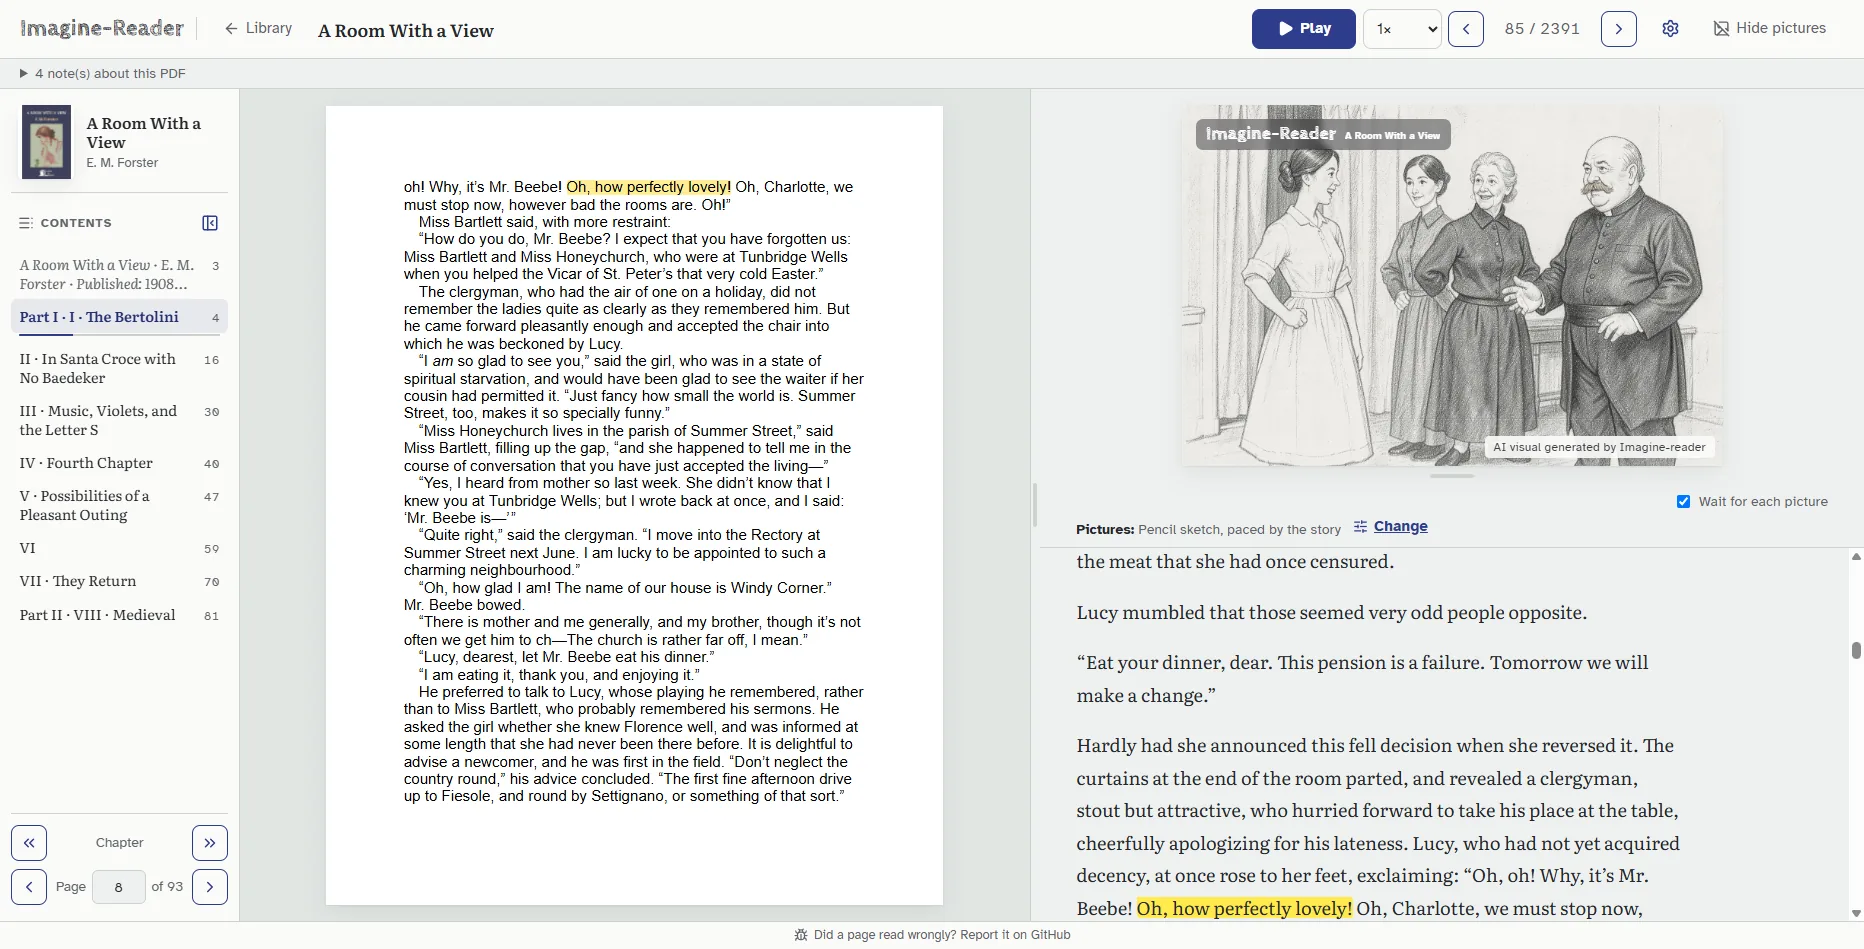
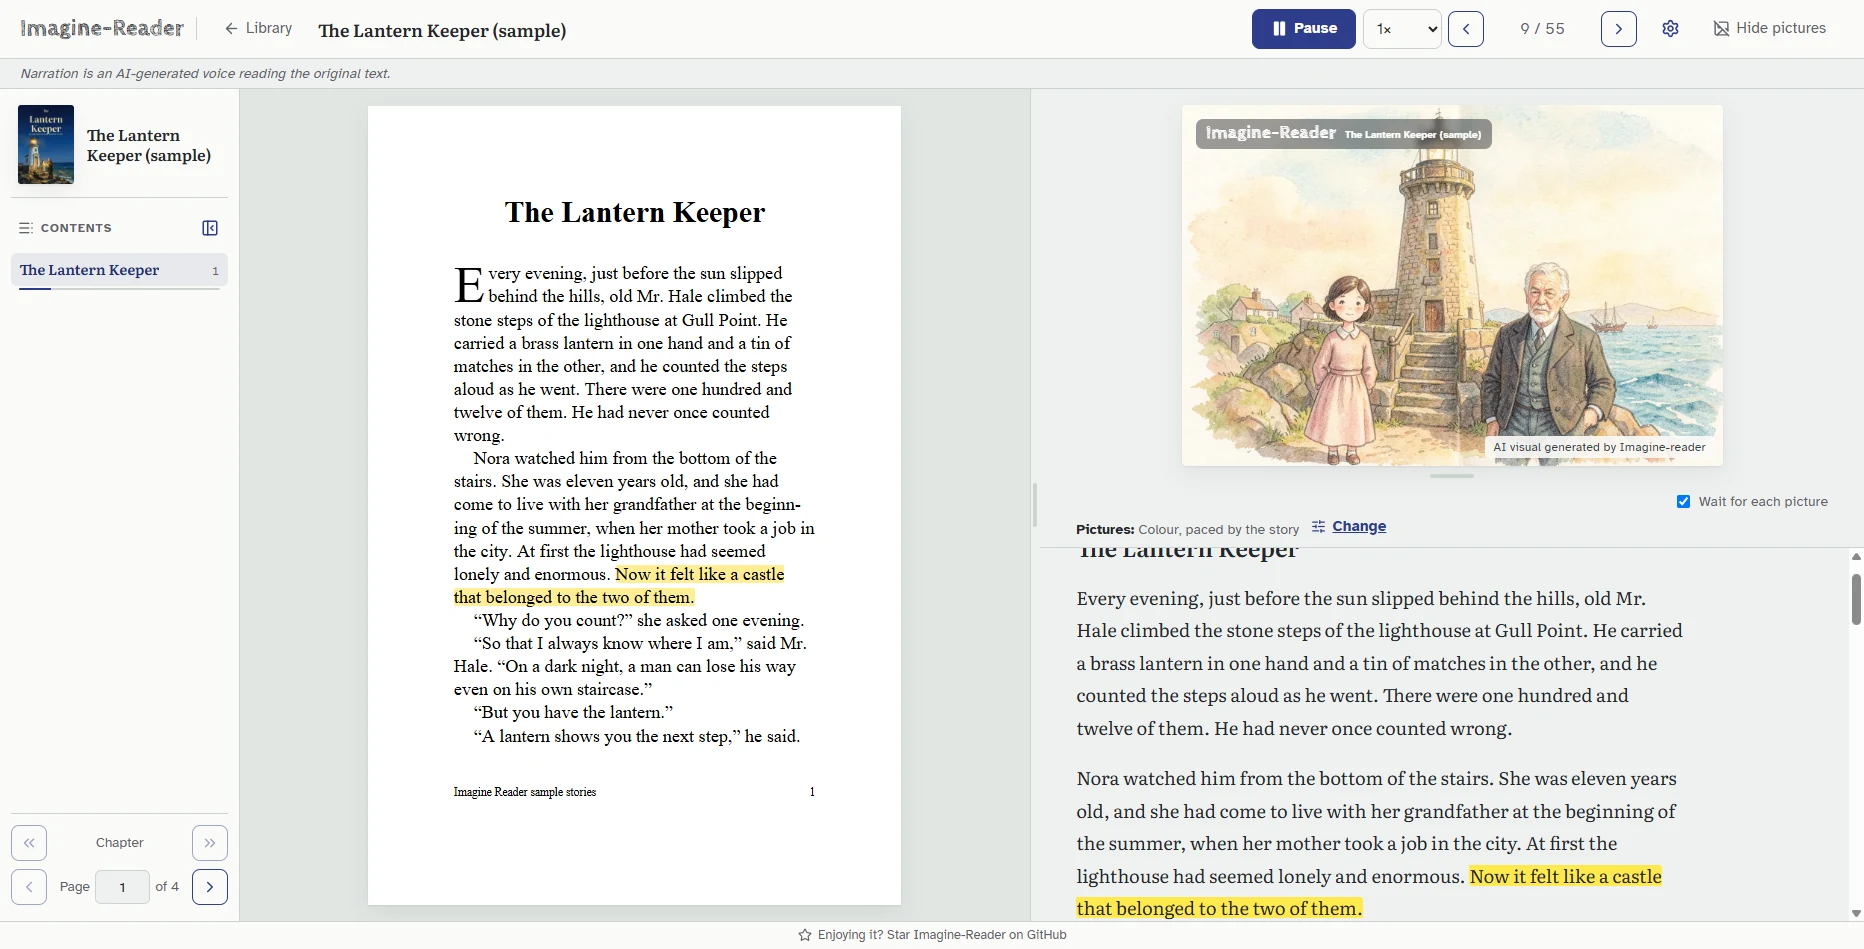
README: the reader shown with the sample The Lantern Keeper

diff --git a/README.md b/README.md
@@ -13,7 +13,7 @@ English and Bangla. Open source, and it runs on your own computer.
 **[Try the sample books](https://imagine-reader.ihsonnet.com)** in your
 browser: no sign-up, no key.
 
-![The reader with A Room with a View: the book's chapters on the left, the PDF page with the current sentence highlighted, and a pencil sketch of the scene above the text](docs/images/reader.webp)
+![The reader with the sample The Lantern Keeper: the PDF page with the sentence being read highlighted, and beside it a colour picture of Nora and her grandfather at the lighthouse, above the same text with the same sentence highlighted](docs/images/reader.webp)
 
 ## What it does
 
@@ -141,9 +141,8 @@ checks. If Imagine-Reader is useful to you, a ⭐ helps others find it.
   *দেবদাস* (Sarat Chandra Chattopadhyay, 1917) and *কাবুলিওয়ালা* (Rabindranath
   Tagore, 1892) are in the public domain, from Bangla Wikisource
   ([sources](server/src/imagine_reader_server/samples/SOURCES.md)).
-- **Screenshots** show *A Room with a View* (E. M. Forster, 1908, Standard
-  Ebooks) and *Alice's Adventures in Wonderland* (Lewis Carroll), both in the
-  public domain.
+- **Example pictures** are drawn from *Alice's Adventures in Wonderland*
+  (Lewis Carroll), in the public domain.
 - **Fonts and icons.** Literata, Atkinson Hyperlegible, Caveat, Cabin Sketch
   and the Noto Bengali fonts are under the SIL Open Font License. Lucide
   icons are under ISC.
